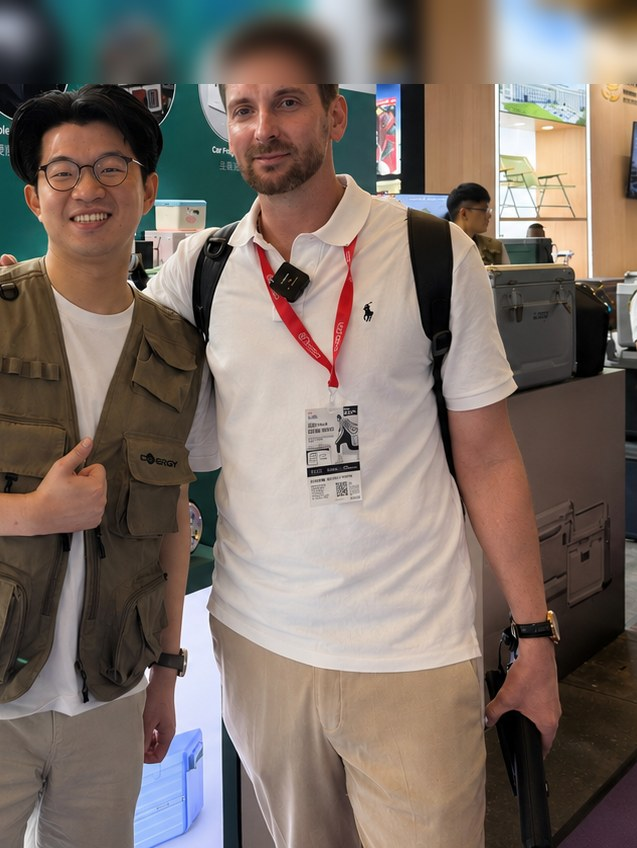
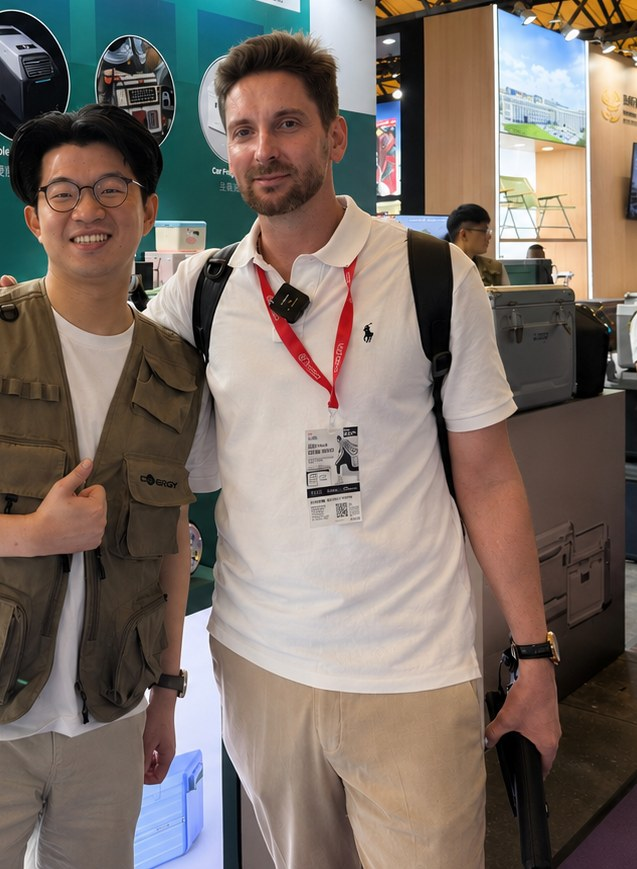
About: use real unblurred photos (founder + on-the-ground strip)

diff --git a/src/app/[locale]/about/page.tsx b/src/app/[locale]/about/page.tsx
@@ -134,7 +134,7 @@ export default async function AboutPage({
           <div className="mt-8 grid gap-4 sm:grid-cols-2 sm:gap-5">
             <div className="relative aspect-[4/3] overflow-hidden rounded-2xl shadow-sm">
               <Image
-                src="/social/li.jpg"
+                src="/about/richie-inspecting.jpg"
                 alt="Richie checking a product hands-on at a China trade show"
                 fill
                 sizes="(min-width: 640px) 50vw, 100vw"
@@ -143,7 +143,7 @@ export default async function AboutPage({
             </div>
             <div className="relative aspect-[4/3] overflow-hidden rounded-2xl shadow-sm">
               <Image
-                src="/social/ig.jpg"
+                src="/about/team-visit.jpg"
                 alt="The Albion team visiting a Chinese manufacturer"
                 fill
                 sizes="(min-width: 640px) 50vw, 100vw"
